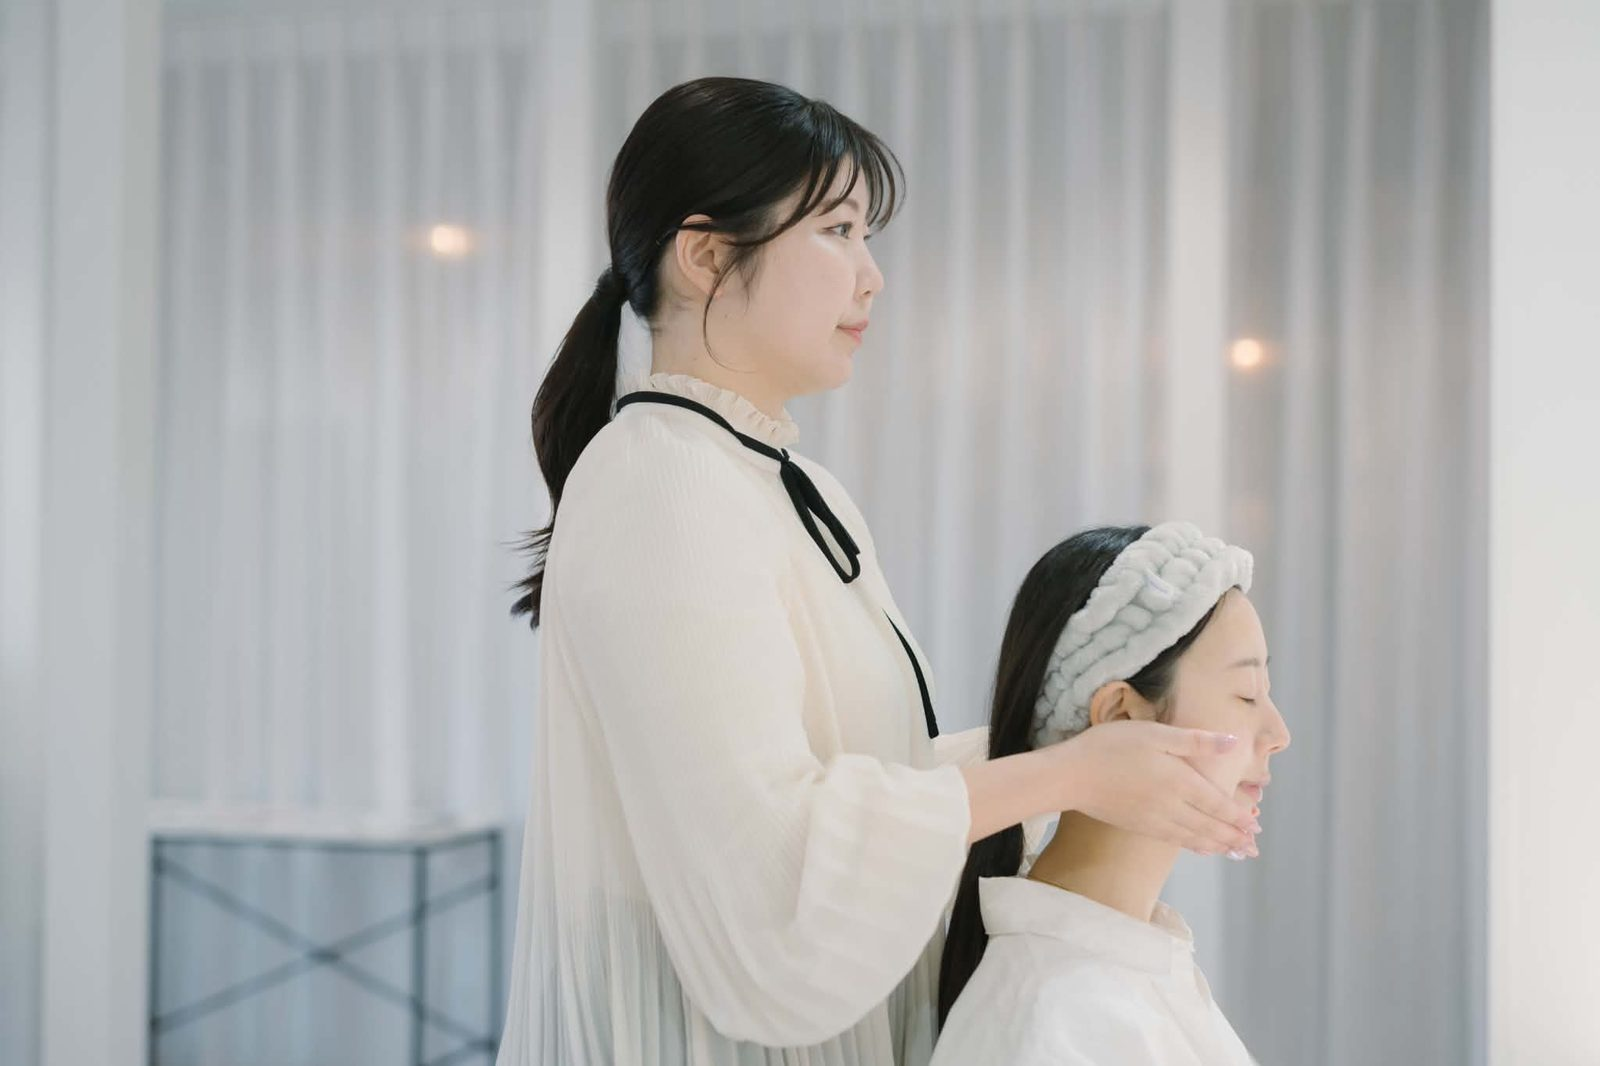
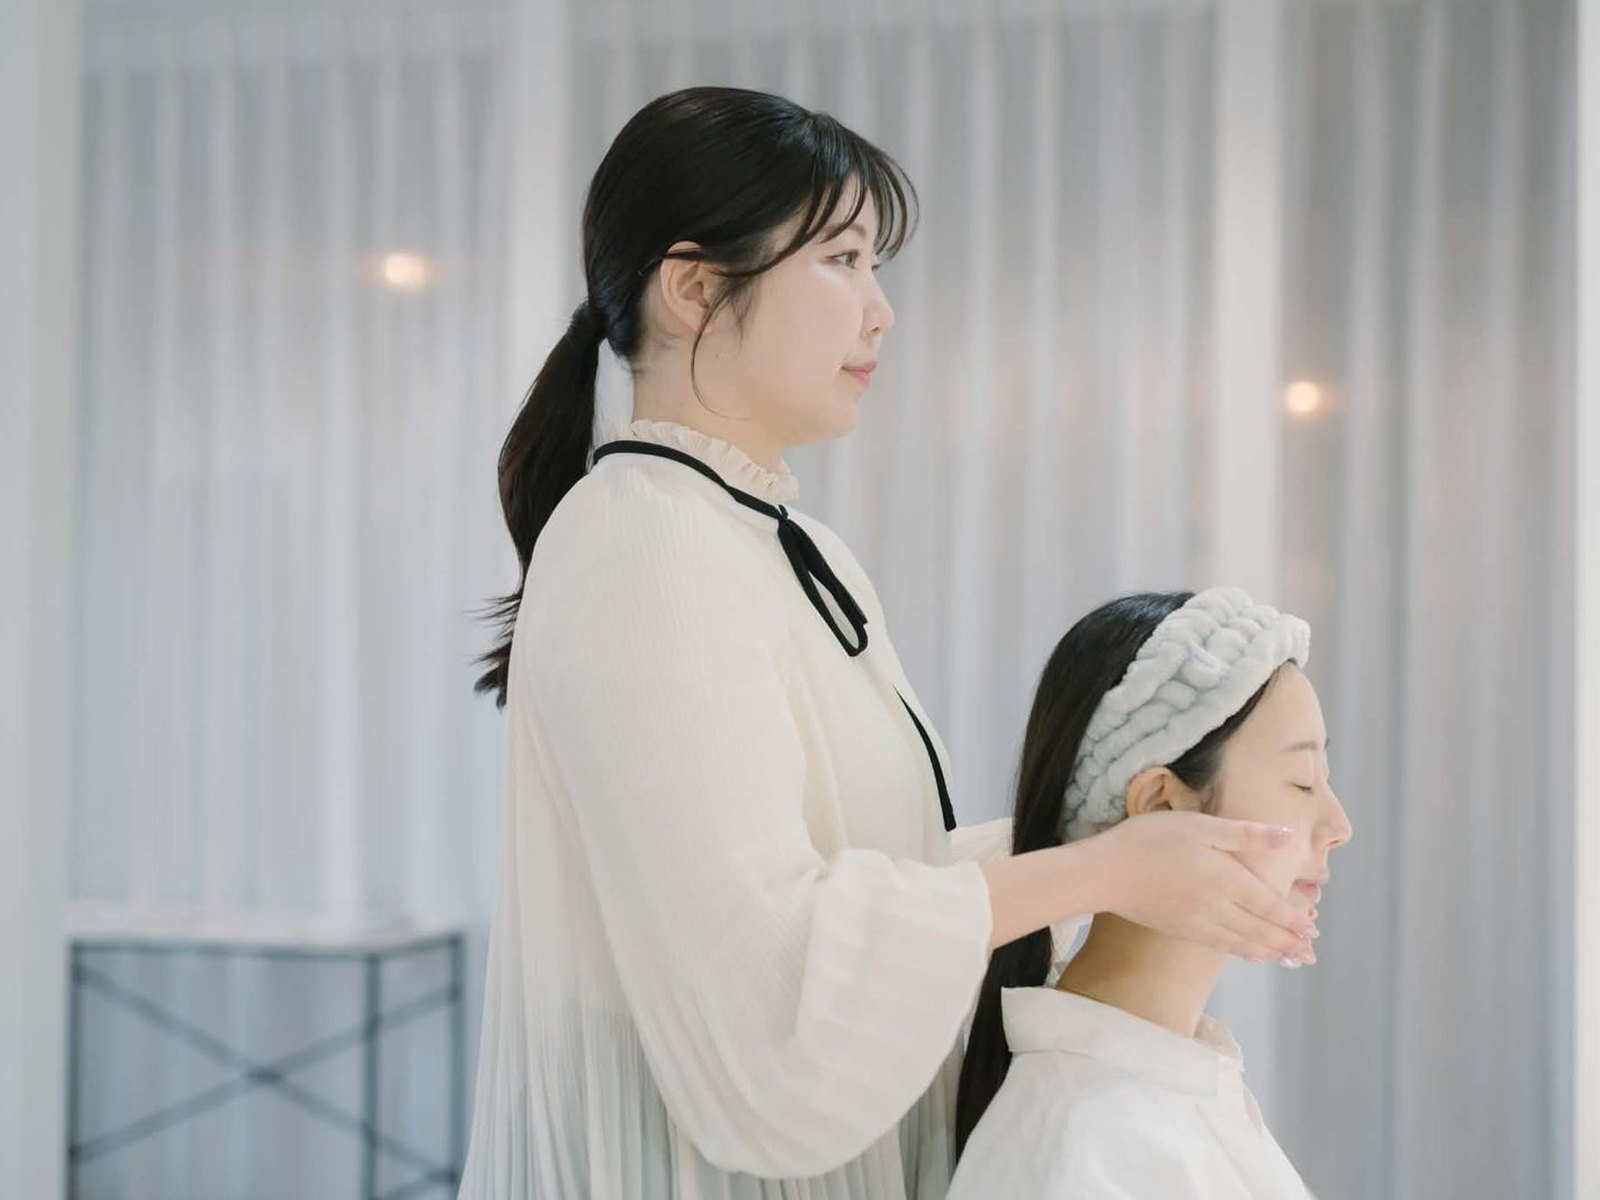
ヒーローで2人が写るように＋内観を明るい写真に差し替え
ヒーロー
- PC/SP とも写真を作り直し。文字を置く側（PCは左35%・SPは上部）に
  カーテンだけの余白を足し、2人が空いた側に収まるようにした
- 余白ができたぶんヴェールを薄くし、人物をそのまま見せる
- 見出しを 50px→44px、ヒーローの内側幅を 1000→1120px に。
  行末が観葉植物に届くとコントラストが 3:1 を割るため

内観
- 暗かった写真を明るいものに差し替え（平均 143→170）
  受付/入口を外し、カウンセリングスペース・待合・施術室・サロン内に
- 施術室はガンマ補正で 133→168 に持ち上げ

PC/SP とも見出し・リード・補足・ラベルの全項目が WCAG 基準を満たすことを実測で確認

diff --git a/index.html b/index.html
@@ -140,7 +140,7 @@ img:is([sizes=auto i],[sizes^="auto," i]){contain-intrinsic-size:3000px 1500px}
 			<p class="desc">完全予約制です。ひとつの時間に、おひとりだけをお迎えしています。大分・熊本どちらのサロンも、同じ考え方でつくりました。</p>
 
 			<div class="gal-room">
-				<figure><img width="1024" height="768" src="/ayou-preview/wp-content/uploads/2026/08/salon-reception-1024x768.jpg" class="" alt="受付" loading="lazy" decoding="async" srcset="/ayou-preview/wp-content/uploads/2026/08/salon-reception-1024x768.jpg 1024w, /ayou-preview/wp-content/uploads/2026/08/salon-reception-300x225.jpg 300w, /ayou-preview/wp-content/uploads/2026/08/salon-reception-768x576.jpg 768w, /ayou-preview/wp-content/uploads/2026/08/salon-reception-1536x1152.jpg 1536w, /ayou-preview/wp-content/uploads/2026/08/salon-reception-640x480.jpg 640w, /ayou-preview/wp-content/uploads/2026/08/salon-reception.jpg 1600w" sizes="auto, (max-width: 1024px) 100vw, 1024px" /><figcaption>受付</figcaption></figure><figure><img width="1024" height="768" src="/ayou-preview/wp-content/uploads/2026/08/salon-treatment-1024x768.jpg" class="" alt="施術室" loading="lazy" decoding="async" srcset="/ayou-preview/wp-content/uploads/2026/08/salon-treatment-1024x768.jpg 1024w, /ayou-preview/wp-content/uploads/2026/08/salon-treatment-300x225.jpg 300w, /ayou-preview/wp-content/uploads/2026/08/salon-treatment-768x576.jpg 768w, /ayou-preview/wp-content/uploads/2026/08/salon-treatment-1536x1152.jpg 1536w, /ayou-preview/wp-content/uploads/2026/08/salon-treatment-640x480.jpg 640w, /ayou-preview/wp-content/uploads/2026/08/salon-treatment.jpg 1600w" sizes="auto, (max-width: 1024px) 100vw, 1024px" /><figcaption>施術室</figcaption></figure><figure><img width="1024" height="768" src="/ayou-preview/wp-content/uploads/2026/08/salon-lounge-1024x768.jpg" class="" alt="待合スペース" loading="lazy" decoding="async" srcset="/ayou-preview/wp-content/uploads/2026/08/salon-lounge-1024x768.jpg 1024w, /ayou-preview/wp-content/uploads/2026/08/salon-lounge-300x225.jpg 300w, /ayou-preview/wp-content/uploads/2026/08/salon-lounge-768x576.jpg 768w, /ayou-preview/wp-content/uploads/2026/08/salon-lounge-1536x1152.jpg 1536w, /ayou-preview/wp-content/uploads/2026/08/salon-lounge-640x480.jpg 640w, /ayou-preview/wp-content/uploads/2026/08/salon-lounge.jpg 1600w" sizes="auto, (max-width: 1024px) 100vw, 1024px" /><figcaption>待合スペース</figcaption></figure><figure><img width="1024" height="682" src="/ayou-preview/wp-content/uploads/2026/08/salon-care-1024x682.jpg" class="" alt="お手入れの様子" loading="lazy" decoding="async" srcset="/ayou-preview/wp-content/uploads/2026/08/salon-care-1024x682.jpg 1024w, /ayou-preview/wp-content/uploads/2026/08/salon-care-300x200.jpg 300w, /ayou-preview/wp-content/uploads/2026/08/salon-care-768x512.jpg 768w, /ayou-preview/wp-content/uploads/2026/08/salon-care-1536x1023.jpg 1536w, /ayou-preview/wp-content/uploads/2026/08/salon-care.jpg 1600w" sizes="auto, (max-width: 1024px) 100vw, 1024px" /><figcaption>お手入れの様子</figcaption></figure><figure><img width="1024" height="768" src="/ayou-preview/wp-content/uploads/2026/08/salon-entrance-1024x768.jpg" class="" alt="入口" loading="lazy" decoding="async" srcset="/ayou-preview/wp-content/uploads/2026/08/salon-entrance-1024x768.jpg 1024w, /ayou-preview/wp-content/uploads/2026/08/salon-entrance-300x225.jpg 300w, /ayou-preview/wp-content/uploads/2026/08/salon-entrance-768x576.jpg 768w, /ayou-preview/wp-content/uploads/2026/08/salon-entrance-1536x1152.jpg 1536w, /ayou-preview/wp-content/uploads/2026/08/salon-entrance-640x480.jpg 640w, /ayou-preview/wp-content/uploads/2026/08/salon-entrance.jpg 1600w" sizes="auto, (max-width: 1024px) 100vw, 1024px" /><figcaption>入口</figcaption></figure>			</div>
+				<figure><img width="1024" height="768" src="/ayou-preview/wp-content/uploads/2026/08/salon-counseling-1024x768.jpg" class="" alt="カウンセリングスペース" loading="lazy" decoding="async" srcset="/ayou-preview/wp-content/uploads/2026/08/salon-counseling-1024x768.jpg 1024w, /ayou-preview/wp-content/uploads/2026/08/salon-counseling-300x225.jpg 300w, /ayou-preview/wp-content/uploads/2026/08/salon-counseling-768x576.jpg 768w, /ayou-preview/wp-content/uploads/2026/08/salon-counseling-1536x1152.jpg 1536w, /ayou-preview/wp-content/uploads/2026/08/salon-counseling-640x480.jpg 640w, /ayou-preview/wp-content/uploads/2026/08/salon-counseling.jpg 1600w" sizes="auto, (max-width: 1024px) 100vw, 1024px" /><figcaption>カウンセリングスペース</figcaption></figure><figure><img width="1024" height="768" src="/ayou-preview/wp-content/uploads/2026/08/salon-lounge-1024x768.jpg" class="" alt="待合スペース" loading="lazy" decoding="async" srcset="/ayou-preview/wp-content/uploads/2026/08/salon-lounge-1024x768.jpg 1024w, /ayou-preview/wp-content/uploads/2026/08/salon-lounge-300x225.jpg 300w, /ayou-preview/wp-content/uploads/2026/08/salon-lounge-768x576.jpg 768w, /ayou-preview/wp-content/uploads/2026/08/salon-lounge-1536x1152.jpg 1536w, /ayou-preview/wp-content/uploads/2026/08/salon-lounge-640x480.jpg 640w, /ayou-preview/wp-content/uploads/2026/08/salon-lounge.jpg 1600w" sizes="auto, (max-width: 1024px) 100vw, 1024px" /><figcaption>待合スペース</figcaption></figure><figure><img width="1024" height="768" src="/ayou-preview/wp-content/uploads/2026/08/salon-treatment-1024x768.jpg" class="" alt="施術室" loading="lazy" decoding="async" srcset="/ayou-preview/wp-content/uploads/2026/08/salon-treatment-1024x768.jpg 1024w, /ayou-preview/wp-content/uploads/2026/08/salon-treatment-300x225.jpg 300w, /ayou-preview/wp-content/uploads/2026/08/salon-treatment-768x576.jpg 768w, /ayou-preview/wp-content/uploads/2026/08/salon-treatment-1536x1152.jpg 1536w, /ayou-preview/wp-content/uploads/2026/08/salon-treatment-640x480.jpg 640w, /ayou-preview/wp-content/uploads/2026/08/salon-treatment.jpg 1600w" sizes="auto, (max-width: 1024px) 100vw, 1024px" /><figcaption>施術室</figcaption></figure><figure><img width="1024" height="768" src="/ayou-preview/wp-content/uploads/2026/08/salon-care-1024x768.jpg" class="" alt="お手入れの様子" loading="lazy" decoding="async" srcset="/ayou-preview/wp-content/uploads/2026/08/salon-care-1024x768.jpg 1024w, /ayou-preview/wp-content/uploads/2026/08/salon-care-300x225.jpg 300w, /ayou-preview/wp-content/uploads/2026/08/salon-care-768x576.jpg 768w, /ayou-preview/wp-content/uploads/2026/08/salon-care-1536x1152.jpg 1536w, /ayou-preview/wp-content/uploads/2026/08/salon-care-640x480.jpg 640w, /ayou-preview/wp-content/uploads/2026/08/salon-care.jpg 1600w" sizes="auto, (max-width: 1024px) 100vw, 1024px" /><figcaption>お手入れの様子</figcaption></figure><figure><img width="1024" height="768" src="/ayou-preview/wp-content/uploads/2026/08/salon-floor-1024x768.jpg" class="" alt="サロン内" loading="lazy" decoding="async" srcset="/ayou-preview/wp-content/uploads/2026/08/salon-floor-1024x768.jpg 1024w, /ayou-preview/wp-content/uploads/2026/08/salon-floor-300x225.jpg 300w, /ayou-preview/wp-content/uploads/2026/08/salon-floor-768x576.jpg 768w, /ayou-preview/wp-content/uploads/2026/08/salon-floor-1536x1152.jpg 1536w, /ayou-preview/wp-content/uploads/2026/08/salon-floor-640x480.jpg 640w, /ayou-preview/wp-content/uploads/2026/08/salon-floor.jpg 1600w" sizes="auto, (max-width: 1024px) 100vw, 1024px" /><figcaption>サロン内</figcaption></figure>			</div>
 
 			<p class="gal-note">当日は、担当者がご案内します。はじめての方もどうぞご安心ください。</p>
 		</div>

diff --git a/about/index.html b/about/index.html
@@ -95,7 +95,7 @@ img:is([sizes=auto i],[sizes^="auto," i]){contain-intrinsic-size:3000px 1500px}
 			<h2>ひとりのお客様に、<br>ひとつの時間を。</h2>
 			<p class="desc">完全予約制です。他のお客様と重なることはありません。</p>
 			<div class="gal">
-				<img width="1024" height="768" src="/ayou-preview/wp-content/uploads/2026/08/salon-reception-1024x768.jpg" class="" alt="受付" loading="lazy" decoding="async" srcset="/ayou-preview/wp-content/uploads/2026/08/salon-reception-1024x768.jpg 1024w, /ayou-preview/wp-content/uploads/2026/08/salon-reception-300x225.jpg 300w, /ayou-preview/wp-content/uploads/2026/08/salon-reception-768x576.jpg 768w, /ayou-preview/wp-content/uploads/2026/08/salon-reception-1536x1152.jpg 1536w, /ayou-preview/wp-content/uploads/2026/08/salon-reception-640x480.jpg 640w, /ayou-preview/wp-content/uploads/2026/08/salon-reception.jpg 1600w" sizes="auto, (max-width: 1024px) 100vw, 1024px" /><img width="1024" height="768" src="/ayou-preview/wp-content/uploads/2026/08/salon-treatment-1024x768.jpg" class="" alt="施術室" loading="lazy" decoding="async" srcset="/ayou-preview/wp-content/uploads/2026/08/salon-treatment-1024x768.jpg 1024w, /ayou-preview/wp-content/uploads/2026/08/salon-treatment-300x225.jpg 300w, /ayou-preview/wp-content/uploads/2026/08/salon-treatment-768x576.jpg 768w, /ayou-preview/wp-content/uploads/2026/08/salon-treatment-1536x1152.jpg 1536w, /ayou-preview/wp-content/uploads/2026/08/salon-treatment-640x480.jpg 640w, /ayou-preview/wp-content/uploads/2026/08/salon-treatment.jpg 1600w" sizes="auto, (max-width: 1024px) 100vw, 1024px" /><img width="1024" height="768" src="/ayou-preview/wp-content/uploads/2026/08/salon-lounge-1024x768.jpg" class="" alt="待合" loading="lazy" decoding="async" srcset="/ayou-preview/wp-content/uploads/2026/08/salon-lounge-1024x768.jpg 1024w, /ayou-preview/wp-content/uploads/2026/08/salon-lounge-300x225.jpg 300w, /ayou-preview/wp-content/uploads/2026/08/salon-lounge-768x576.jpg 768w, /ayou-preview/wp-content/uploads/2026/08/salon-lounge-1536x1152.jpg 1536w, /ayou-preview/wp-content/uploads/2026/08/salon-lounge-640x480.jpg 640w, /ayou-preview/wp-content/uploads/2026/08/salon-lounge.jpg 1600w" sizes="auto, (max-width: 1024px) 100vw, 1024px" /><img width="1024" height="682" src="/ayou-preview/wp-content/uploads/2026/08/salon-care-1024x682.jpg" class="" alt="お手入れの様子" loading="lazy" decoding="async" srcset="/ayou-preview/wp-content/uploads/2026/08/salon-care-1024x682.jpg 1024w, /ayou-preview/wp-content/uploads/2026/08/salon-care-300x200.jpg 300w, /ayou-preview/wp-content/uploads/2026/08/salon-care-768x512.jpg 768w, /ayou-preview/wp-content/uploads/2026/08/salon-care-1536x1023.jpg 1536w, /ayou-preview/wp-content/uploads/2026/08/salon-care.jpg 1600w" sizes="auto, (max-width: 1024px) 100vw, 1024px" /><img width="1024" height="768" src="/ayou-preview/wp-content/uploads/2026/08/salon-entrance-1024x768.jpg" class="" alt="外観" loading="lazy" decoding="async" srcset="/ayou-preview/wp-content/uploads/2026/08/salon-entrance-1024x768.jpg 1024w, /ayou-preview/wp-content/uploads/2026/08/salon-entrance-300x225.jpg 300w, /ayou-preview/wp-content/uploads/2026/08/salon-entrance-768x576.jpg 768w, /ayou-preview/wp-content/uploads/2026/08/salon-entrance-1536x1152.jpg 1536w, /ayou-preview/wp-content/uploads/2026/08/salon-entrance-640x480.jpg 640w, /ayou-preview/wp-content/uploads/2026/08/salon-entrance.jpg 1600w" sizes="auto, (max-width: 1024px) 100vw, 1024px" />			</div>
+				<img width="1024" height="768" src="/ayou-preview/wp-content/uploads/2026/08/salon-counseling-1024x768.jpg" class="" alt="カウンセリングスペース" loading="lazy" decoding="async" srcset="/ayou-preview/wp-content/uploads/2026/08/salon-counseling-1024x768.jpg 1024w, /ayou-preview/wp-content/uploads/2026/08/salon-counseling-300x225.jpg 300w, /ayou-preview/wp-content/uploads/2026/08/salon-counseling-768x576.jpg 768w, /ayou-preview/wp-content/uploads/2026/08/salon-counseling-1536x1152.jpg 1536w, /ayou-preview/wp-content/uploads/2026/08/salon-counseling-640x480.jpg 640w, /ayou-preview/wp-content/uploads/2026/08/salon-counseling.jpg 1600w" sizes="auto, (max-width: 1024px) 100vw, 1024px" /><img width="1024" height="768" src="/ayou-preview/wp-content/uploads/2026/08/salon-lounge-1024x768.jpg" class="" alt="待合スペース" loading="lazy" decoding="async" srcset="/ayou-preview/wp-content/uploads/2026/08/salon-lounge-1024x768.jpg 1024w, /ayou-preview/wp-content/uploads/2026/08/salon-lounge-300x225.jpg 300w, /ayou-preview/wp-content/uploads/2026/08/salon-lounge-768x576.jpg 768w, /ayou-preview/wp-content/uploads/2026/08/salon-lounge-1536x1152.jpg 1536w, /ayou-preview/wp-content/uploads/2026/08/salon-lounge-640x480.jpg 640w, /ayou-preview/wp-content/uploads/2026/08/salon-lounge.jpg 1600w" sizes="auto, (max-width: 1024px) 100vw, 1024px" /><img width="1024" height="768" src="/ayou-preview/wp-content/uploads/2026/08/salon-treatment-1024x768.jpg" class="" alt="施術室" loading="lazy" decoding="async" srcset="/ayou-preview/wp-content/uploads/2026/08/salon-treatment-1024x768.jpg 1024w, /ayou-preview/wp-content/uploads/2026/08/salon-treatment-300x225.jpg 300w, /ayou-preview/wp-content/uploads/2026/08/salon-treatment-768x576.jpg 768w, /ayou-preview/wp-content/uploads/2026/08/salon-treatment-1536x1152.jpg 1536w, /ayou-preview/wp-content/uploads/2026/08/salon-treatment-640x480.jpg 640w, /ayou-preview/wp-content/uploads/2026/08/salon-treatment.jpg 1600w" sizes="auto, (max-width: 1024px) 100vw, 1024px" /><img width="1024" height="768" src="/ayou-preview/wp-content/uploads/2026/08/salon-care-1024x768.jpg" class="" alt="お手入れの様子" loading="lazy" decoding="async" srcset="/ayou-preview/wp-content/uploads/2026/08/salon-care-1024x768.jpg 1024w, /ayou-preview/wp-content/uploads/2026/08/salon-care-300x225.jpg 300w, /ayou-preview/wp-content/uploads/2026/08/salon-care-768x576.jpg 768w, /ayou-preview/wp-content/uploads/2026/08/salon-care-1536x1152.jpg 1536w, /ayou-preview/wp-content/uploads/2026/08/salon-care-640x480.jpg 640w, /ayou-preview/wp-content/uploads/2026/08/salon-care.jpg 1600w" sizes="auto, (max-width: 1024px) 100vw, 1024px" /><img width="1024" height="768" src="/ayou-preview/wp-content/uploads/2026/08/salon-floor-1024x768.jpg" class="" alt="サロン内" loading="lazy" decoding="async" srcset="/ayou-preview/wp-content/uploads/2026/08/salon-floor-1024x768.jpg 1024w, /ayou-preview/wp-content/uploads/2026/08/salon-floor-300x225.jpg 300w, /ayou-preview/wp-content/uploads/2026/08/salon-floor-768x576.jpg 768w, /ayou-preview/wp-content/uploads/2026/08/salon-floor-1536x1152.jpg 1536w, /ayou-preview/wp-content/uploads/2026/08/salon-floor-640x480.jpg 640w, /ayou-preview/wp-content/uploads/2026/08/salon-floor.jpg 1600w" sizes="auto, (max-width: 1024px) 100vw, 1024px" />			</div>
 		</div>
 	</div>
 </section>

diff --git a/wp-content/themes/ayou/style.css b/wp-content/themes/ayou/style.css
@@ -98,11 +98,11 @@ p{margin:0;}
 }
 .hero-veil{
   position:absolute; inset:0; z-index:1; pointer-events:none;
-  /* 文字が乗る左 45% までは白を残し、そこから一気に抜いて写真を見せる。
-     一律に薄めると見出し（淡いグレー）のコントラストが落ちるため。 */
+  /* 写真は左 35% がカーテンだけの余白（人物は右側）。その余白に文字を置く。
+     文字が乗る側は白を残し、人物のいる右側は抜いて写真をそのまま見せる。 */
   background:
-    linear-gradient(to bottom, rgba(255,255,255,.80) 0%, rgba(255,255,255,.40) 14%, rgba(255,255,255,0) 30%),
-    linear-gradient(100deg, rgba(255,255,255,.97) 0%, rgba(255,255,255,.95) 44%, rgba(255,255,255,.45) 60%, rgba(255,255,255,0) 82%);
+    linear-gradient(to bottom, rgba(255,255,255,.72) 0%, rgba(255,255,255,.32) 15%, rgba(255,255,255,0) 32%),
+    linear-gradient(100deg, rgba(255,255,255,.93) 0%, rgba(255,255,255,.91) 42%, rgba(255,255,255,.28) 58%, rgba(255,255,255,0) 76%);
 }
 .hero-cap{
   position:absolute; z-index:2; right:16px; bottom:16px;
@@ -127,9 +127,12 @@ p{margin:0;}
   padding-top:44px; padding-bottom:88px;
 }
 .hero-copy > *{max-width:780px;}
+/* ヒーローだけ内側の幅を広げ、文字を左に寄せる。
+   見出しの行末が観葉植物に届くとコントラストが 3:1 を割るため。 */
+.hero .inner{max-width:1120px;}
 .hero .eb{font-size:10.5px; letter-spacing:.26em; color:var(--aqua-deep); display:flex; align-items:center; gap:14px;}
 .hero .eb::after{content:""; height:1px; width:56px; background:var(--aqua);}
-.hero h1{font-size:clamp(30px,4vw,50px); line-height:1.6; margin:30px 0 0;}
+.hero h1{font-size:clamp(30px,3.6vw,44px); line-height:1.6; margin:30px 0 0;}
 .hero .sub{
   font-family:var(--serif); font-size:clamp(16px,1.7vw,20px); color:var(--ink);
   line-height:1.95; margin-top:24px; letter-spacing:.08em;

diff --git a/counseling/index.html b/counseling/index.html
@@ -148,7 +148,7 @@ img:is([sizes=auto i],[sizes^="auto," i]){contain-intrinsic-size:3000px 1500px}
 			
 			<form class="form" action="/ayou-preview/wp-admin/admin-post.php" method="post">
 				<input type="hidden" name="action" value="ayou_inquiry">
-				<input type="hidden" id="ayou_inquiry_nonce" name="ayou_inquiry_nonce" value="da8ed04a9a" /><input type="hidden" name="_wp_http_referer" value="/counseling/" />
+				<input type="hidden" id="ayou_inquiry_nonce" name="ayou_inquiry_nonce" value="8d0333565e" /><input type="hidden" name="_wp_http_referer" value="/counseling/" />
 								<div class="hp" aria-hidden="true">
 					<label for="ayou_website">ウェブサイト</label>
 					<input type="text" id="ayou_website" name="ayou_website" tabindex="-1" autocomplete="off">
